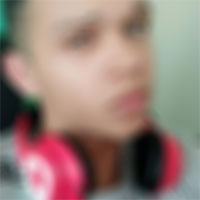
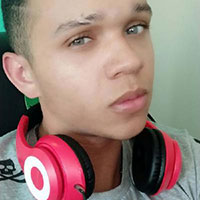
Update file's name

diff --git a/formacao.html b/formacao.html
@@ -5,14 +5,14 @@
     <meta name="viewport" content="width=device-width, initial-scale=1, shrink-to-fit=no">
     <meta name="description" content="">
     <meta name="author" content="Lucas-HMSC">
-    <link rel="icon" href="_imagens/favicon2.ico">
+    <link rel="icon" href="_imagens/favicon.ico">
 
     <title>Lucas Carvalho - Formação</title>
 
     <!-- Principal CSS do Bootstrap -->
-    <link href="Bootstrap_files/bootstrap.min.css" rel="stylesheet">
+    <link href="_files/bootstrap.min.css" rel="stylesheet">
     <!-- Estilos customizados para esse template -->
-    <link href="Bootstrap_files/cover.css" rel="stylesheet">
+    <link href="_files/cover.css" rel="stylesheet">
     <!-- Estilo personaizado -->
     <link rel="stylesheet" href="css/estilo.css">
   </head>
@@ -237,7 +237,7 @@
     ================================================== -->
     <!-- Foi colocado no final para a página carregar mais rápido -->
     <script src="https://code.jquery.com/jquery-3.3.1.slim.min.js" integrity="sha384-q8i/X+965DzO0rT7abK41JStQIAqVgRVzpbzo5smXKp4YfRvH+8abtTE1Pi6jizo" crossorigin="anonymous"></script>
-    <script src="Bootstrap_files/popper.min.js"></script>
-    <script src="Bootstrap_files/bootstrap.min.js"></script>
+    <script src="_files/popper.min.js"></script>
+    <script src="_files/bootstrap.min.js"></script>
   </body>
 </html>

diff --git a/contato.html b/contato.html
@@ -5,14 +5,14 @@
     <meta name="viewport" content="width=device-width, initial-scale=1, shrink-to-fit=no">
     <meta name="description" content="">
     <meta name="author" content="Lucas-HMSC">
-    <link rel="icon" href="_imagens/favicon2.ico">
+    <link rel="icon" href="_imagens/favicon.ico">
 
     <title>Lucas Carvalho - Contato</title>
 
     <!-- Principal CSS do Bootstrap -->
-    <link href="Bootstrap_files/bootstrap.min.css" rel="stylesheet">
+    <link href="_files/bootstrap.min.css" rel="stylesheet">
     <!-- Estilos customizados para esse template -->
-    <link href="Bootstrap_files/cover.css" rel="stylesheet">
+    <link href="_files/cover.css" rel="stylesheet">
     <!-- Estilo personaizado -->
     <link rel="stylesheet" href="css/estilo.css">
   </head>
@@ -55,7 +55,7 @@
     ================================================== -->
     <!-- Foi colocado no final para a página carregar mais rápido -->
     <script src="https://code.jquery.com/jquery-3.3.1.slim.min.js" integrity="sha384-q8i/X+965DzO0rT7abK41JStQIAqVgRVzpbzo5smXKp4YfRvH+8abtTE1Pi6jizo" crossorigin="anonymous"></script>
-    <script src="Bootstrap_files/popper.min.js"></script>
-    <script src="Bootstrap_files/bootstrap.min.js"></script>
+    <script src="_files/popper.min.js"></script>
+    <script src="_files/bootstrap.min.js"></script>
   </body>
 </html>

diff --git a/index.html b/index.html
@@ -5,14 +5,14 @@
     <meta name="viewport" content="width=device-width, initial-scale=1, shrink-to-fit=no">
     <meta name="description" content="">
     <meta name="author" content="Lucas-HMSC">
-    <link rel="icon" href="_imagens/favicon2.ico">
+    <link rel="icon" href="_imagens/favicon.ico">
 
     <title>Lucas Carvalho - Home</title>
 
     <!-- Principal CSS do Bootstrap -->
-    <link href="Bootstrap_files/bootstrap.min.css" rel="stylesheet">
+    <link href="_files/bootstrap.min.css" rel="stylesheet">
     <!-- Estilos customizados para esse template -->
-    <link href="Bootstrap_files/cover.css" rel="stylesheet">
+    <link href="_files/cover.css" rel="stylesheet">
     <!-- Estilo personaizado -->
     <link rel="stylesheet" href="css/estilo.css">
   </head>
@@ -61,7 +61,7 @@
     ================================================== -->
     <!-- Foi colocado no final para a página carregar mais rápido -->
     <script src="https://code.jquery.com/jquery-3.3.1.slim.min.js" integrity="sha384-q8i/X+965DzO0rT7abK41JStQIAqVgRVzpbzo5smXKp4YfRvH+8abtTE1Pi6jizo" crossorigin="anonymous"></script>
-    <script src="Bootstrap_files/popper.min.js"></script>
-    <script src="Bootstrap_files/bootstrap.min.js"></script>
+    <script src="_files/popper.min.js"></script>
+    <script src="_files/bootstrap.min.js"></script>
   </body>
 </html>

diff --git a/_css/estilo.css b/_css/estilo.css
@@ -3,7 +3,7 @@
 div.img {
     height: 200px;
     width: 200px;
-    background-image: url(../_imagens/perfil2.jpg);
+    background-image: url(../_imagens/perfil.jpg);
     margin: auto;
     filter: blur(5px);
 }
